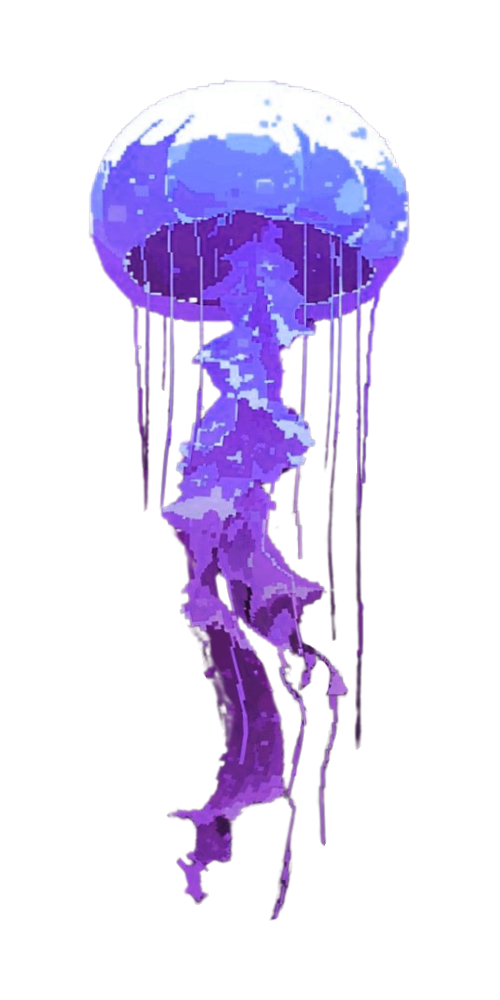
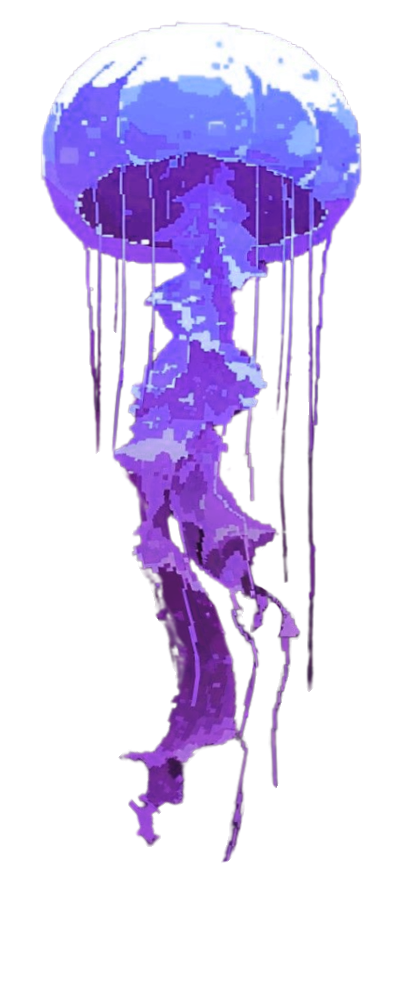
Updated jellyfish sprites

diff --git a/src/entities/jellyfish.py b/src/entities/jellyfish.py
@@ -11,7 +11,7 @@ class Jellyfish(Character):
 
     # Sprite sheet path
     base_path = ["meduse_idle", "meduse_active"]
-    base_scale = 0.3
+    base_scale = 0.45
 
     # State
     state = 0
